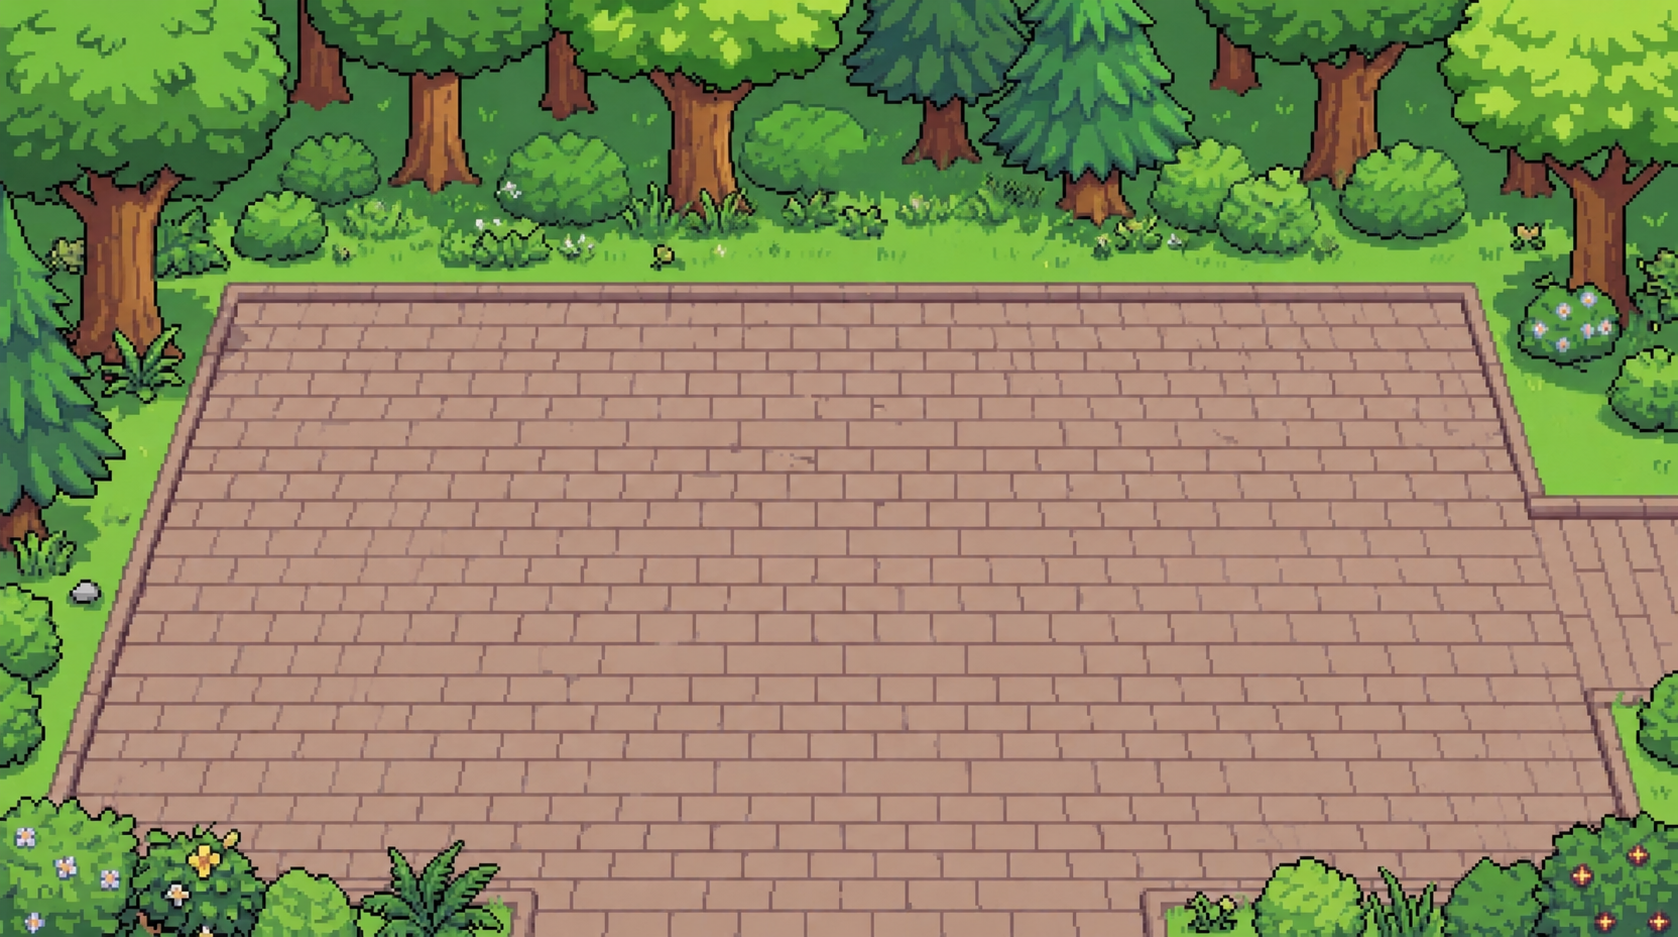
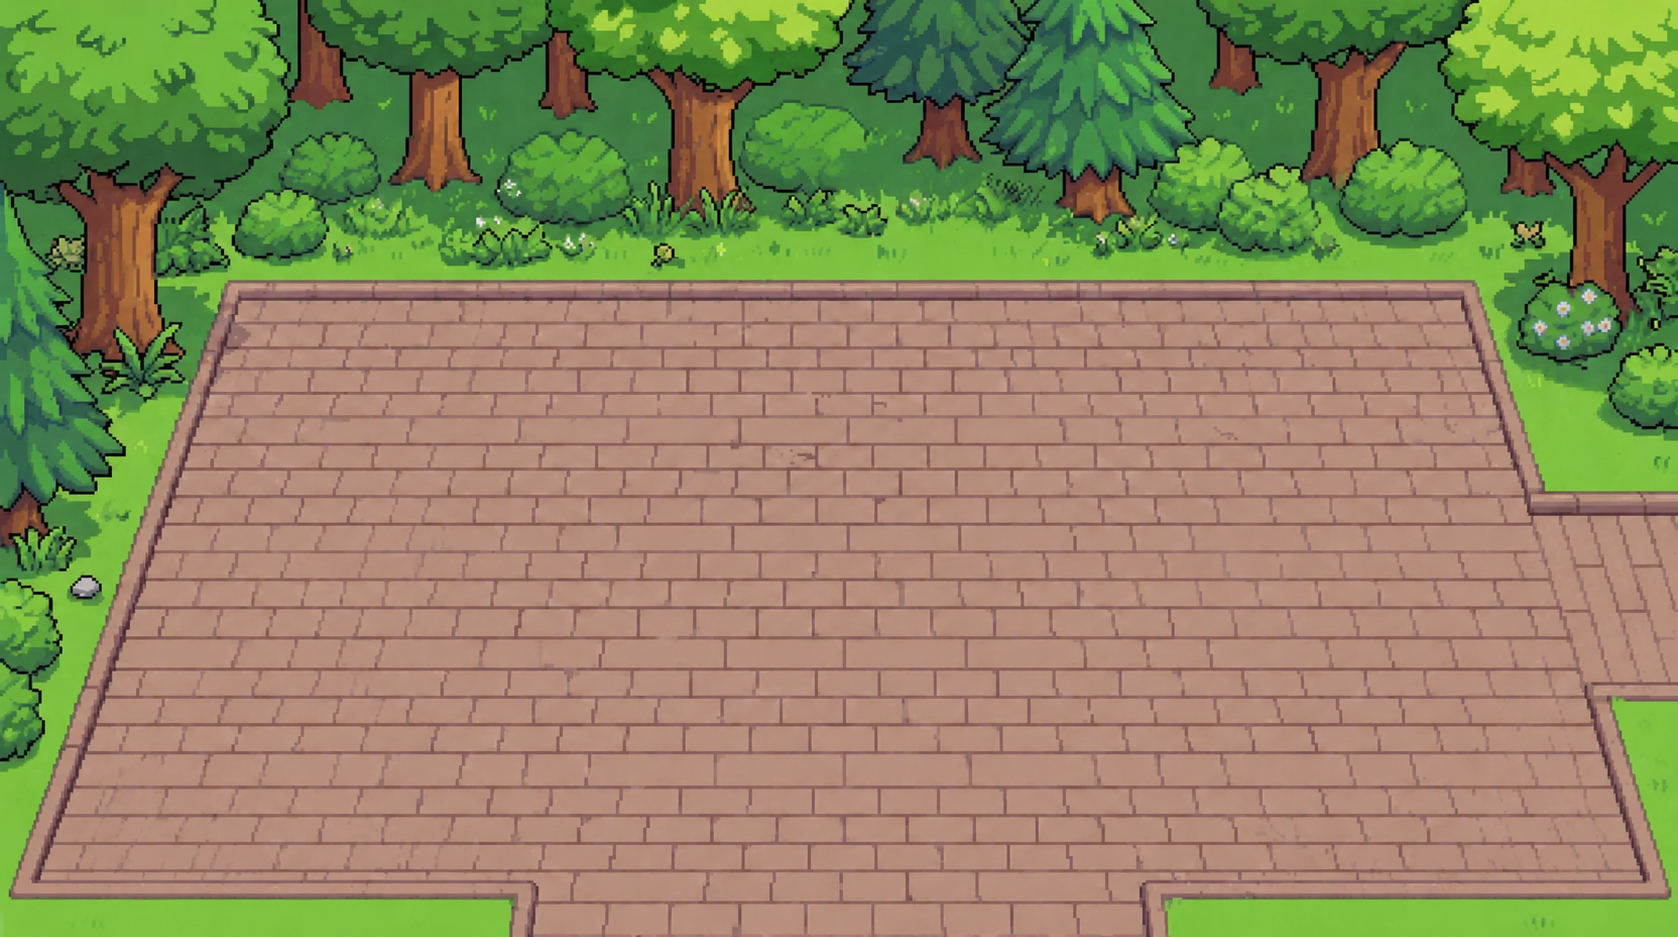
feat(juego): integrar capas de arbustos en primer plano y nuevo escenario en formato png

diff --git a/packages/game/src/index.tsx b/packages/game/src/index.tsx
@@ -176,7 +176,7 @@ export function PixiGameCanvas({
   onModuleComplete,
   language = "es",
   splashImageUrl = "/assets/juego/splash.jpg",
-  stageImageUrl = "/assets/juego/escenario.jpg",
+  stageImageUrl = "/assets/juego/escenario.png",
 }: GameProps) {
   const [currentScreen, setCurrentScreen] = useState<
     "splash" | "how_to_play" | "gameplay"
@@ -673,11 +673,10 @@ export function PixiGameCanvas({
                 }}
                 type="button"
                 aria-label="Volver al menú principal"
-                className={`pointer-events-auto bg-[#f9d7ea] hover:bg-[#f6c2e0] rounded-md ring-2 ring-white ring-inset active:translate-x-[1px] active:translate-y-[1px] active:shadow-none transition-all flex items-center justify-center cursor-pointer font-mono font-black text-black shrink-0 ${
-                  isFullscreen
-                    ? "w-12 h-12 text-xl border-[4px] border-[#b5146c] shadow-[4px_4px_0px_0px_#7a0c47]"
-                    : "w-9 h-9 text-sm border-[3px] border-[#b5146c] shadow-[3px_3px_0px_0px_#7a0c47]"
-                }`}
+                className={`pointer-events-auto bg-[#f9d7ea] hover:bg-[#f6c2e0] rounded-md ring-2 ring-white ring-inset active:translate-x-[1px] active:translate-y-[1px] active:shadow-none transition-all flex items-center justify-center cursor-pointer font-mono font-black text-black shrink-0 ${isFullscreen
+                  ? "w-12 h-12 text-xl border-[4px] border-[#b5146c] shadow-[4px_4px_0px_0px_#7a0c47]"
+                  : "w-9 h-9 text-sm border-[3px] border-[#b5146c] shadow-[3px_3px_0px_0px_#7a0c47]"
+                  }`}
               >
                 <span>◀</span>
               </button>
@@ -827,6 +826,20 @@ export function PixiGameCanvas({
                   lastDirection={lastDirection}
                 />
               </div>
+
+              {/* FOREGROUND BUSH OVERLAYS (Positioned at z-30 above player so character walks behind them) */}
+              <img
+                src="/assets/juego/arbusto-izquierda.png"
+                alt="Arbustos Izquierda"
+                className="absolute bottom-0 left-0 w-[30.6%] h-auto object-contain pointer-events-none select-none z-30"
+                style={{ imageRendering: "pixelated" }}
+              />
+              <img
+                src="/assets/juego/arbusto-derecha.png"
+                alt="Arbustos Derecha"
+                className="absolute bottom-0 right-0 w-[26%] h-auto object-contain pointer-events-none select-none z-30"
+                style={{ imageRendering: "pixelated" }}
+              />
             </div>
           </div>
         )}
@@ -835,24 +848,21 @@ export function PixiGameCanvas({
         {showExitConfirm && (
           <div className="absolute inset-0 z-50 bg-black/80 backdrop-blur-sm flex items-center justify-center p-4 animate-in fade-in duration-200">
             <div
-              className={`bg-[#f9d7ea] text-black font-mono flex flex-col items-center text-center shadow-[8px_8px_0px_0px_#400624] ring-4 ring-white ring-inset relative overflow-hidden select-none ${
-                isFullscreen
-                  ? "w-[46%] min-w-[320px] max-w-[520px] p-6 sm:p-8 rounded-xl border-[6px] border-[#7a0c47]"
-                  : "w-[85%] max-w-[350px] p-5 sm:p-6 rounded-lg border-[4px] border-[#7a0c47]"
-              }`}
+              className={`bg-[#f9d7ea] text-black font-mono flex flex-col items-center text-center shadow-[8px_8px_0px_0px_#400624] ring-4 ring-white ring-inset relative overflow-hidden select-none ${isFullscreen
+                ? "w-[46%] min-w-[320px] max-w-[520px] p-6 sm:p-8 rounded-xl border-[6px] border-[#7a0c47]"
+                : "w-[85%] max-w-[350px] p-5 sm:p-6 rounded-lg border-[4px] border-[#7a0c47]"
+                }`}
             >
               <h3
-                className={`font-black uppercase text-[#7a0c47] tracking-wider ${
-                  isFullscreen ? "text-xl sm:text-2xl mb-3 mt-1" : "text-base sm:text-lg mb-2"
-                }`}
+                className={`font-black uppercase text-[#7a0c47] tracking-wider ${isFullscreen ? "text-xl sm:text-2xl mb-3 mt-1" : "text-base sm:text-lg mb-2"
+                  }`}
               >
                 ¿REGRESAR AL MENÚ?
               </h3>
 
               <p
-                className={`text-slate-900 font-bold leading-relaxed mb-6 max-w-xs ${
-                  isFullscreen ? "text-sm sm:text-base" : "text-xs sm:text-sm"
-                }`}
+                className={`text-slate-900 font-bold leading-relaxed mb-6 max-w-xs ${isFullscreen ? "text-sm sm:text-base" : "text-xs sm:text-sm"
+                  }`}
               >
                 Si regresas al menú principal, perderás todo tu progreso actual en la partida.
               </p>
@@ -862,9 +872,8 @@ export function PixiGameCanvas({
                 <button
                   type="button"
                   onClick={() => setShowExitConfirm(false)}
-                  className={`flex-1 bg-white hover:bg-slate-100 text-black border-2 sm:border-3 border-black font-black uppercase shadow-[3px_3px_0px_0px_#000] active:translate-x-[2px] active:translate-y-[2px] active:shadow-none transition-all cursor-pointer ${
-                    isFullscreen ? "py-3 text-sm sm:text-base rounded-md" : "py-2 text-xs rounded"
-                  }`}
+                  className={`flex-1 bg-white hover:bg-slate-100 text-black border-2 sm:border-3 border-black font-black uppercase shadow-[3px_3px_0px_0px_#000] active:translate-x-[2px] active:translate-y-[2px] active:shadow-none transition-all cursor-pointer ${isFullscreen ? "py-3 text-sm sm:text-base rounded-md" : "py-2 text-xs rounded"
+                    }`}
                 >
                   CANCELAR
                 </button>
@@ -874,9 +883,8 @@ export function PixiGameCanvas({
                     setShowExitConfirm(false);
                     changeScreenWithTransition("splash");
                   }}
-                  className={`flex-1 bg-[#b5146c] hover:bg-[#8e0e54] text-white border-2 sm:border-3 border-black font-black uppercase shadow-[3px_3px_0px_0px_#000] active:translate-x-[2px] active:translate-y-[2px] active:shadow-none transition-all cursor-pointer ${
-                    isFullscreen ? "py-3 text-sm sm:text-base rounded-md" : "py-2 text-xs rounded"
-                  }`}
+                  className={`flex-1 bg-[#b5146c] hover:bg-[#8e0e54] text-white border-2 sm:border-3 border-black font-black uppercase shadow-[3px_3px_0px_0px_#000] active:translate-x-[2px] active:translate-y-[2px] active:shadow-none transition-all cursor-pointer ${isFullscreen ? "py-3 text-sm sm:text-base rounded-md" : "py-2 text-xs rounded"
+                    }`}
                 >
                   SÍ, SALIR
                 </button>
